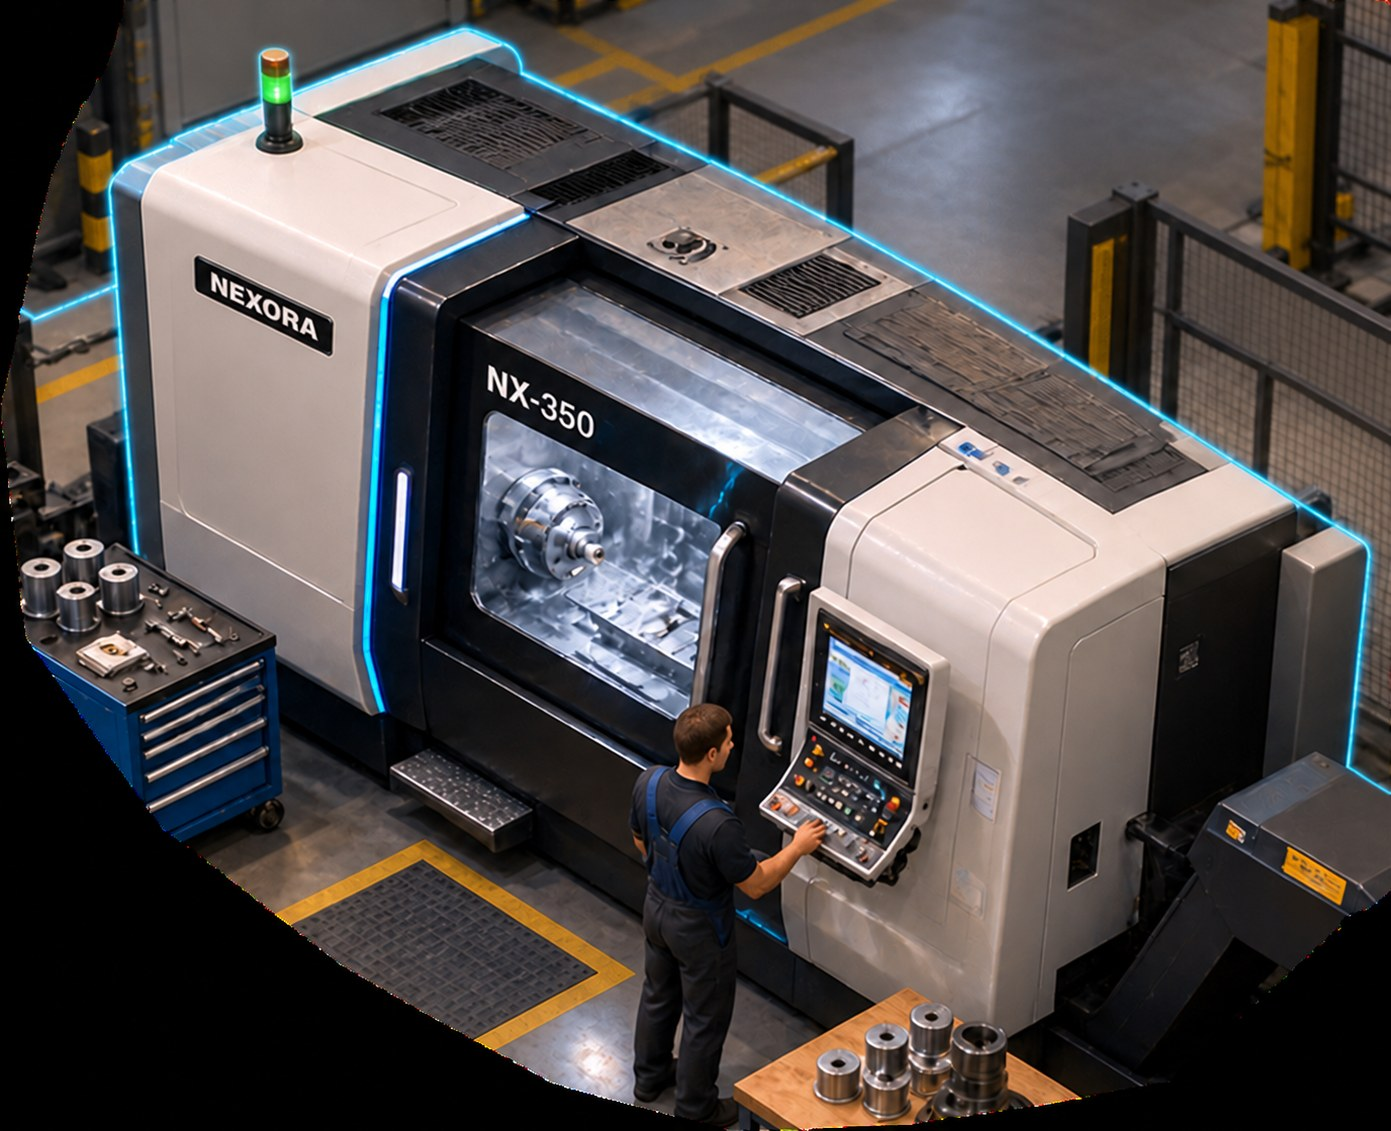
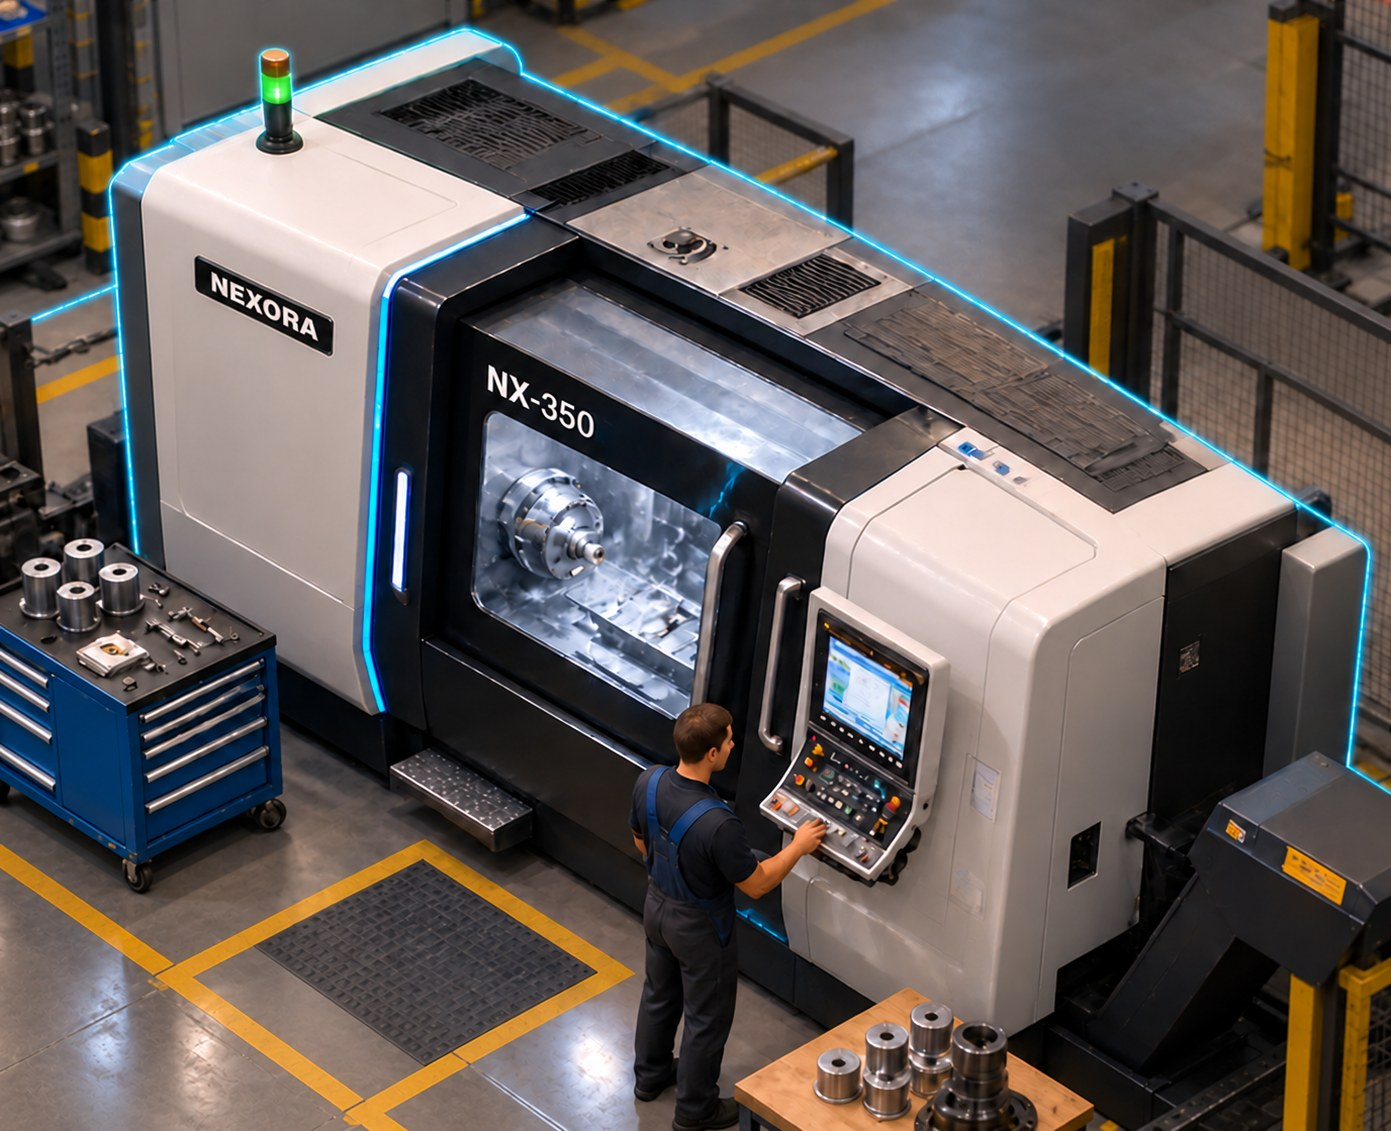
Polish full-frame Nexora cell and responsive canvas

diff --git a/game.js b/game.js
@@ -131,15 +131,15 @@
     create(){
       visual=this;
       const base=this.add.graphics();
-      base.fillGradientStyle(0x253943,0x253943,0x101e29,0x101e29).fillRect(0,0,1000,650);
-      this.add.image(500,325,'nexora').setDisplaySize(1000,836);
+      base.fillGradientStyle(0x253943,0x253943,0x101e29,0x101e29).fillRect(0,0,1000,800);
+      this.add.image(500,400,'nexora').setDisplaySize(1000,836);
       // Rotating spindle glint and flying chips are anchored inside the real machine window.
       this.spindle=this.add.graphics().setBlendMode(Phaser.BlendModes.ADD);
       this.sparks=Array.from({length:20},()=>{
-        const p=this.add.circle(440,310,Phaser.Math.FloatBetween(.8,2.3),0x9cefff,0).setBlendMode(Phaser.BlendModes.ADD);
+        const p=this.add.circle(440,385,Phaser.Math.FloatBetween(.8,2.3),0x9cefff,0).setBlendMode(Phaser.BlendModes.ADD);
         return {sprite:p,phase:Math.random()*Math.PI*2,radius:12+Math.random()*57,speed:1+Math.random()*2};
       });
-      this.tower=this.add.circle(199,101,8,0x6cff98,.12).setBlendMode(Phaser.BlendModes.ADD);
+      this.tower=this.add.circle(199,45,8,0x6cff98,.12).setBlendMode(Phaser.BlendModes.ADD);
       render();
     }
     update(_time,delta){
@@ -148,18 +148,18 @@
       this.spindle.clear();
       const on=this.running;
       if(on){
-        this.spindle.lineStyle(3,0x97e6ff,.55).beginPath().arc(445,302,31,this.elapsed*9,this.elapsed*9+1.7).strokePath();
-        this.spindle.lineStyle(2,0xffffff,.32).beginPath().arc(445,302,22,-this.elapsed*13,-this.elapsed*13+1.25).strokePath();
+        this.spindle.lineStyle(3,0x97e6ff,.55).beginPath().arc(445,377,31,this.elapsed*9,this.elapsed*9+1.7).strokePath();
+        this.spindle.lineStyle(2,0xffffff,.32).beginPath().arc(445,377,22,-this.elapsed*13,-this.elapsed*13+1.25).strokePath();
       }
       this.sparks.forEach(p=>{
         const t=this.elapsed*p.speed*4+p.phase;
-        p.sprite.setPosition(445+Math.cos(t)*p.radius,315+Math.sin(t*.8)*p.radius*.46);
+        p.sprite.setPosition(445+Math.cos(t)*p.radius,390+Math.sin(t*.8)*p.radius*.46);
         p.sprite.setAlpha(on ? .14+.6*Math.max(0,Math.sin(t*2)) : 0);
       });
       this.tower.setAlpha(on ? .18+.45*(.5+.5*Math.sin(this.elapsed*8)) : .09);
     }
   }
-  new Phaser.Game({type:Phaser.AUTO,parent:'game',width:1000,height:650,backgroundColor:'#152a35',scale:{mode:Phaser.Scale.FIT,autoCenter:Phaser.Scale.CENTER_BOTH},render:{antialias:true,pixelArt:false},scene:[FactoryScene]});
+  new Phaser.Game({type:Phaser.AUTO,parent:'game',width:1000,height:800,backgroundColor:'#152a35',scale:{mode:Phaser.Scale.ENVELOP,autoCenter:Phaser.Scale.CENTER_BOTH},render:{antialias:true,pixelArt:false},scene:[FactoryScene]});
   let previous=performance.now(),accumulator=0;
   function frame(now){
     accumulator+=Math.min((now-previous)/1000,.25);previous=now;
